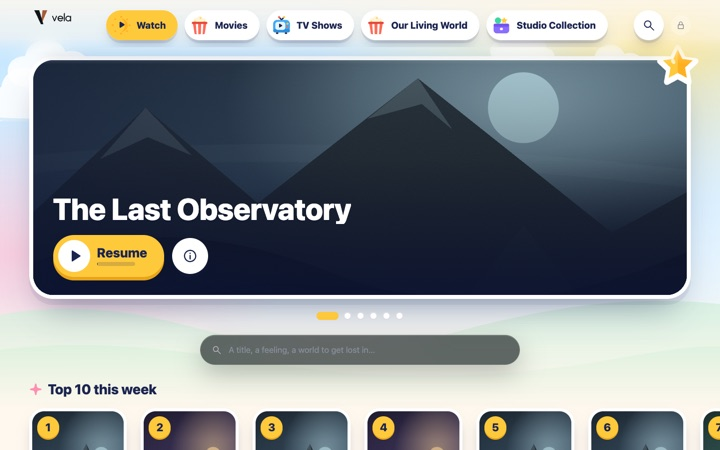
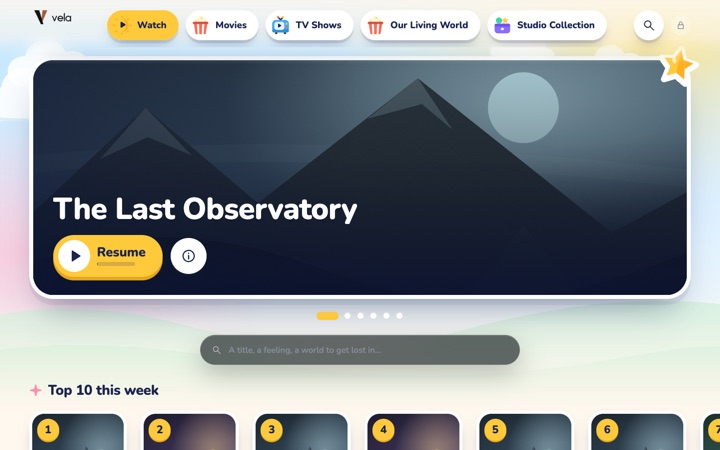
Kids on renderer 2: the title page as data, Nunito, palette stickers, a quiet gate reset
Title route: back button, the sticker window onto the title, a big Play/Resume
(or the show's next episode), season chips, episode stickers with number, progress
and watched badges, More like this, and friendly loading/failed states. Document
font Nunito (OFL, licence beside it). Tile ledges cycle sun/sky/coral/mint/grape
(mod), tiles tilt as they lift, and every gate exit clears its flags without
navigating (reset). White frames spell out their per-side borders.

diff --git a/protocol/v0/fixtures/skins/kids/document.ts b/protocol/v0/fixtures/skins/kids/document.ts
@@ -16,6 +16,9 @@ const gutter = { 'padding-left': 'max(24px, 4vw)', 'padding-right': 'max(24px, 4
 const gutterSmall = { 'padding-left': '16px', 'padding-right': '16px' } as Style;
 // A raised, toy-like button: a flat ledge under a soft drop.
 const ledge = (tint: string) => `0px 6px 0px ${tint}, 0px 16px 28px -12px rgba(27, 37, 80, 0.35)`;
+// A white sticker frame, as longhands: every side's width and colour stated.
+const frame = (w: number): Style => ({ 'border-style': 'solid', 'border-width': `${w}px`, 'border-color': '#FFFFFF',
+  'border-top-width': `${w}px`, 'border-top-color': '#FFFFFF', 'border-bottom-width': `${w}px`, 'border-bottom-color': '#FFFFFF' } as Style);
 const lift = { translate: '0px -3px', transition: `translate 380ms ${bouncy}, scale 380ms ${bouncy}, background-color 160ms linear` } as Style;
 // Keyboard and remote focus: a thick sky ring outside a white gap, readable on any ground.
 const ring = '0px 0px 0px 4px #FFFFFF, 0px 0px 0px 8px #3FA9F5';
@@ -172,8 +175,8 @@ const infoButton = (alone: boolean): Node => ({ type: 'box', press: { action: 's
 // Today's pick: a big rounded window onto the featured title, with a star sticker on its corner.
 const hero: Node = { type: 'repeat', over: 'home.hero', when: [{ test: 'env.searching', not: true }], item: { type: 'box', motion: 'rise', style: { position: 'relative', ...gutter, 'padding-top': '112px' }, small: { ...gutterSmall, 'padding-top': '78px' }, children: [
   { type: 'widget', widget: 'observe', params: { receipt: '{hero.receipt}' } },
-  { type: 'box', style: { position: 'relative', height: 'clamp(340px, 54vh, 600px)', 'box-sizing': 'border-box', border: '8px solid #FFFFFF', 'border-radius': '48px', 'overflow-x': 'hidden', 'overflow-y': 'hidden', 'background-color': '$sky',
-    'box-shadow': '0px 12px 0px rgba(27, 37, 80, 0.07), 0px 40px 70px -28px rgba(27, 37, 80, 0.45)' }, small: { height: '440px', 'border-radius': '36px', border: '6px solid #FFFFFF' }, children: [
+  { type: 'box', style: { position: 'relative', height: 'clamp(340px, 54vh, 600px)', 'box-sizing': 'border-box', ...frame(8), 'border-radius': '48px', 'overflow-x': 'hidden', 'overflow-y': 'hidden', 'background-color': '$sky',
+    'box-shadow': '0px 12px 0px rgba(27, 37, 80, 0.07), 0px 40px 70px -28px rgba(27, 37, 80, 0.45)' }, small: { height: '440px', 'border-radius': '36px', ...frame(6) }, children: [
     { type: 'box', when: [{ test: 'hero.backdrop' }], motion: 'drift', style: { position: 'absolute', top: '0px', left: '0px', right: '0px', bottom: '0px', 'transform-origin': '60% 40%' }, small: { display: 'none' }, children: [
       { type: 'image', src: '{hero.backdrop}', alt: '', fade: true, style: { position: 'absolute', top: '0px', left: '0px', width: '100%', height: '100%', 'object-fit': 'cover', transition: `opacity 420ms ${soft}` } }] },
     // On a phone the window is tall: the poster fills it better than a cropped backdrop.
@@ -211,9 +214,9 @@ const card: Node = { type: 'box', group: true, press: { action: 'select', arg: '
     { type: 'widget', widget: 'observe', params: { receipt: '{card.receipt}' } },
     { type: 'box', style: { position: 'relative', width: '100%', 'aspect-ratio': '2 / 3' }, children: [
       ...ledges,
-      { type: 'box', style: { position: 'absolute', top: '0px', left: '0px', right: '0px', bottom: '0px', 'box-sizing': 'border-box', border: '6px solid #FFFFFF', 'border-radius': tileRadius, 'overflow-x': 'hidden', 'overflow-y': 'hidden', 'background-color': '$sky-soft',
+      { type: 'box', style: { position: 'absolute', top: '0px', left: '0px', right: '0px', bottom: '0px', 'box-sizing': 'border-box', ...frame(6), 'border-radius': tileRadius, 'overflow-x': 'hidden', 'overflow-y': 'hidden', 'background-color': '$sky-soft',
         'box-shadow': '0px 14px 30px -16px rgba(27, 37, 80, 0.5)', scale: '1', translate: '0px 0px', rotate: '0', transition: `scale 460ms ${bouncy}, translate 460ms ${bouncy}, rotate 460ms ${bouncy}, box-shadow 300ms ${soft}` },
-        small: { border: '5px solid #FFFFFF', 'border-radius': '24px' },
+        small: { ...frame(5), 'border-radius': '24px' },
         groupHover: { scale: '1.04', translate: '0px -10px', rotate: '-2', 'box-shadow': '0px 26px 40px -16px rgba(27, 37, 80, 0.55)' }, children: [
           { type: 'image', when: [{ test: 'card.poster' }], src: '{card.poster}', alt: '', fade: true, style: { position: 'absolute', top: '0px', left: '0px', width: '100%', height: '100%', 'object-fit': 'cover', transition: `opacity 420ms ${soft}` } },
           { type: 'box', when: [{ test: 'card.poster', not: true }], style: { position: 'absolute', top: '0px', left: '0px', right: '0px', bottom: '0px', display: 'flex', 'align-items': 'center', 'justify-content': 'center', padding: '16px', 'background-image': 'linear-gradient(160deg, #FFE59A 0%, #FFB3C7 100%)' }, children: [
@@ -267,6 +270,19 @@ const backButton: Node = { type: 'box', press: { action: 'back' }, label: '{s:ba
   small: { width: '52px', height: '52px', top: 'calc(14px + env(safe-area-inset-top))', left: '14px' }, hover: lift, focus: ringed(ledge('rgba(27, 37, 80, 0.10)')), children: [
     { type: 'icon', symbol: 'back', style: { width: '26px', height: '26px', color: '$ink' }, small: { width: '22px', height: '22px' } }] };
 
+// A show plays its next episode: the first one not yet watched, with its number and name.
+const upNext: Node = { type: 'repeat', over: 'detail.upNext', when: [{ test: 'detail.canPlay', not: true }], item: { type: 'box', press: { action: 'play', arg: '{card.id}' }, label: '{episode.playLabel}: {episode.numberTitle}', testId: 'detail-up-next',
+  style: { position: 'relative', display: 'flex', 'flex-direction': 'row', 'align-items': 'center', gap: '14px', 'align-self': 'flex-start', 'min-height': '84px', 'max-width': '30rem', 'box-sizing': 'border-box', padding: '10px 36px 10px 10px', 'border-radius': '999px', 'background-color': '$sun',
+    'box-shadow': '0px 7px 0px #E8A419, 0px 22px 40px -16px rgba(27, 37, 80, 0.45)', scale: '1', translate: '0px 0px', transition: `scale 420ms ${bouncy}, translate 420ms ${bouncy}` },
+  small: { 'align-self': 'stretch', 'max-width': 'none' }, hover: { scale: '1.04', translate: '0px -3px' }, focus: { scale: '1.04', 'box-shadow': `${ring}, 0px 7px 0px #E8A419` }, children: [
+    { type: 'box', style: { display: 'flex', 'align-items': 'center', 'justify-content': 'center', width: '64px', height: '64px', 'flex-shrink': '0', 'border-radius': '999px', 'background-color': '$card' }, small: { width: '54px', height: '54px' }, children: [
+      { type: 'icon', symbol: 'play-fill', style: { width: '28px', height: '28px', 'margin-left': '4px', color: '$ink' } }] },
+    { type: 'box', style: { display: 'flex', 'flex-direction': 'column', gap: '4px', 'min-width': '0px' }, children: [
+      { type: 'text', text: '{episode.playLabel}', style: { 'font-size': '22px', 'font-weight': '800', 'line-height': '1.05' }, small: { 'font-size': '20px' } },
+      { type: 'text', text: '{episode.numberTitle}', style: { 'font-size': '15px', 'font-weight': '700', 'line-clamp': '1', opacity: '0.8' } },
+    ] },
+  ] } };
+
 const titlePlay: Node = { type: 'box', when: [{ test: 'detail.canPlay' }], press: { action: 'play', arg: '{detail.id}' }, label: '{detail.playLabel}', testId: 'detail-play',
   style: { position: 'relative', display: 'flex', 'flex-direction': 'row', 'align-items': 'center', gap: '14px', 'align-self': 'flex-start', height: '84px', 'box-sizing': 'border-box', padding: '0px 36px 0px 10px', 'border-radius': '999px', 'background-color': '$sun',
     'box-shadow': '0px 7px 0px #E8A419, 0px 22px 40px -16px rgba(27, 37, 80, 0.45)', scale: '1', translate: '0px 0px', transition: `scale 420ms ${bouncy}, translate 420ms ${bouncy}` },
@@ -288,8 +304,8 @@ const seasonChip: Node = { type: 'repeat', over: 'detail.seasons', item: { type:
   ] } };
 
 // An episode is a wide sticker: its picture, a big number badge and a progress bar.
-const episode: Node = { type: 'box', group: true, press: { action: 'play', arg: '{card.id}' }, label: '{card.label}', style: { position: 'relative', display: 'flex', 'flex-direction': 'column', gap: '12px' }, children: [
-  { type: 'box', style: { position: 'relative', width: '100%', 'aspect-ratio': '16 / 9', 'box-sizing': 'border-box', border: '6px solid #FFFFFF', 'border-radius': '28px', 'overflow-x': 'hidden', 'overflow-y': 'hidden', 'background-color': '$sky-soft',
+const episode: Node = { type: 'box', group: true, press: { action: 'play', arg: '{card.id}' }, label: '{episode.playLabel}: {episode.numberTitle}', style: { position: 'relative', display: 'flex', 'flex-direction': 'column', gap: '12px' }, children: [
+  { type: 'box', style: { position: 'relative', width: '100%', 'aspect-ratio': '16 / 9', 'box-sizing': 'border-box', ...frame(6), 'border-radius': '28px', 'overflow-x': 'hidden', 'overflow-y': 'hidden', 'background-color': '$sky-soft',
     'box-shadow': '0px 8px 0px rgba(27, 37, 80, 0.07), 0px 18px 30px -18px rgba(27, 37, 80, 0.5)', scale: '1', translate: '0px 0px', transition: `scale 460ms ${bouncy}, translate 460ms ${bouncy}` },
     groupHover: { scale: '1.03', translate: '0px -6px', 'box-shadow': `${ring}, 0px 22px 36px -18px rgba(27, 37, 80, 0.55)` }, children: [
       { type: 'image', when: [{ test: 'card.backdrop' }], src: '{card.backdrop}', alt: '', fade: true, style: { position: 'absolute', top: '0px', left: '0px', width: '100%', height: '100%', 'object-fit': 'cover' } },
@@ -316,8 +332,8 @@ const titleReady: Node = { type: 'box', when: [{ test: 'env.load', is: 'eq', val
     { type: 'widget', widget: 'observe', params: { receipt: '{detail.receipt}' } },
     // The window onto the title, the same sticker frame as home's.
     { type: 'box', motion: 'rise', style: { position: 'relative' }, children: [
-      { type: 'box', style: { position: 'relative', height: 'clamp(300px, 50vh, 560px)', 'box-sizing': 'border-box', border: '8px solid #FFFFFF', 'border-radius': '48px', 'overflow-x': 'hidden', 'overflow-y': 'hidden', 'background-color': '$sky',
-        'box-shadow': '0px 12px 0px rgba(27, 37, 80, 0.07), 0px 40px 70px -28px rgba(27, 37, 80, 0.45)' }, small: { height: '300px', 'border-radius': '34px', border: '6px solid #FFFFFF' }, children: [
+      { type: 'box', style: { position: 'relative', height: 'clamp(300px, 50vh, 560px)', 'box-sizing': 'border-box', ...frame(8), 'border-radius': '48px', 'overflow-x': 'hidden', 'overflow-y': 'hidden', 'background-color': '$sky',
+        'box-shadow': '0px 12px 0px rgba(27, 37, 80, 0.07), 0px 40px 70px -28px rgba(27, 37, 80, 0.45)' }, small: { height: '300px', 'border-radius': '34px', ...frame(6) }, children: [
         { type: 'image', when: [{ test: 'detail.backdrop' }], src: '{detail.backdrop}', alt: '', fade: true, style: { position: 'absolute', top: '0px', left: '0px', width: '100%', height: '100%', 'object-fit': 'cover' } },
         { type: 'image', when: [{ test: 'detail.backdrop', not: true }, { test: 'detail.poster' }], src: '{detail.poster}', alt: '', style: { position: 'absolute', top: '-20%', left: '-20%', width: '140%', height: '140%', 'object-fit': 'cover', filter: 'blur(60px) saturate(1.5)' } },
         { type: 'box', style: { position: 'absolute', top: '0px', left: '0px', right: '0px', bottom: '0px', 'background-image': 'linear-gradient(0deg, rgba(12, 20, 52, 0.72) 0%, rgba(12, 20, 52, 0) 52%)' } },
@@ -330,7 +346,7 @@ const titleReady: Node = { type: 'box', when: [{ test: 'env.load', is: 'eq', val
     ] },
     // Play first; then a little for the grown-ups: facts and two lines of story.
     { type: 'box', motion: 'zoomLate', style: { display: 'flex', 'flex-direction': 'row', 'flex-wrap': 'wrap', gap: '26px', 'align-items': 'center' }, small: { 'flex-direction': 'column', 'align-items': 'stretch', gap: '18px' }, children: [
-      titlePlay,
+      titlePlay, upNext,
       { type: 'box', style: { display: 'flex', 'flex-direction': 'column', gap: '8px', flex: '1', 'min-width': '16rem', 'max-width': '44rem' }, small: { 'min-width': '0px' }, children: [
         { type: 'text', text: '{detail.factsLine}', style: { 'font-size': '15px', 'font-weight': '700', color: '$ink-soft' } },
         { type: 'text', when: [{ test: 'detail.summary' }], text: '{detail.summary}', style: { 'font-size': '17px', 'font-weight': '600', 'line-height': '1.45', color: '$ink-soft', 'line-clamp': '2' } },
@@ -338,8 +354,8 @@ const titleReady: Node = { type: 'box', when: [{ test: 'env.load', is: 'eq', val
     ] },
     { type: 'box', when: [{ test: 'detail.hasEpisodes' }], style: { display: 'flex', 'flex-direction': 'column', gap: '22px' }, children: [
       sectionTitle('{s:episodes}'),
-      { type: 'box', when: [{ test: 'detail.hasSeasons' }], role: 'group', label: '{s:seasons}', style: { display: 'flex', 'flex-direction': 'row', gap: '14px', 'overflow-x': 'auto', 'scrollbar-width': 'none', padding: '6px 4px 14px 4px', margin: '-6px -4px -14px -4px' }, children: [seasonChip] },
-      { type: 'box', style: { display: 'grid', 'grid-template-columns': 'repeat(auto-fill, minmax(300px, 1fr))', gap: '30px 26px' }, small: { 'grid-template-columns': '1fr', gap: '22px' }, children: [
+      { type: 'box', when: [{ test: 'detail.hasSeasons' }], role: 'group', label: '{s:seasons}', style: { display: 'flex', 'flex-direction': 'row', 'flex-wrap': 'wrap', gap: '14px' }, children: [seasonChip] },
+      { type: 'box', style: { display: 'grid', 'grid-template-columns': 'repeat(auto-fill, minmax(300px, 1fr))', gap: '30px' }, small: { 'grid-template-columns': '1fr', gap: '22px' }, children: [
         { type: 'repeat', over: 'detail.episodes', item: { ...episode, motion: 'tileIn', stagger: { step: 45, cap: 10 } } },
       ] },
     ] },
@@ -353,9 +369,9 @@ const titleReady: Node = { type: 'box', when: [{ test: 'env.load', is: 'eq', val
     ] },
   ] };
 
-const title: Node = { type: 'box', style: { position: 'absolute', top: '0px', left: '0px', right: '0px', bottom: '0px', display: 'flex', 'flex-direction': 'column', 'background-color': '$page', color: '$ink', 'font-family': rounded }, children: [
+const title: Node = { type: 'box', style: { position: 'absolute', top: '0px', left: '0px', right: '0px', bottom: '0px', height: '100%', display: 'flex', 'flex-direction': 'column', 'background-color': '$page', color: '$ink', 'font-family': rounded }, children: [
   backButton,
-  { type: 'box', id: '{env.route}-scroll-{env.entry}', role: 'region', label: '{detail.name}', style: { position: 'relative', flex: '1', 'min-height': '0px', 'overflow-y': 'auto', 'overflow-x': 'hidden' }, children: [
+  { type: 'box', id: '{env.route}-scroll-{env.entry}', role: 'region', label: '{detail.name}', style: { position: 'relative', flex: '1', 'min-height': '0px', 'overflow-y': 'auto', 'overflow-x': 'hidden', 'background-color': '$page' }, children: [
     { type: 'image', src: art('sky.svg'), alt: '', style: { position: 'absolute', top: '0px', left: '0px', width: '100%', height: '560px', 'object-fit': 'cover', 'pointer-events': 'none', 'mask-image': 'linear-gradient(180deg, black 0%, black 60%, transparent 100%)' } },
     restState('loading', 'star.svg', '{s:opening}', false),
     restState('failed', 'sleepy.svg', '{s:failed}', true),
